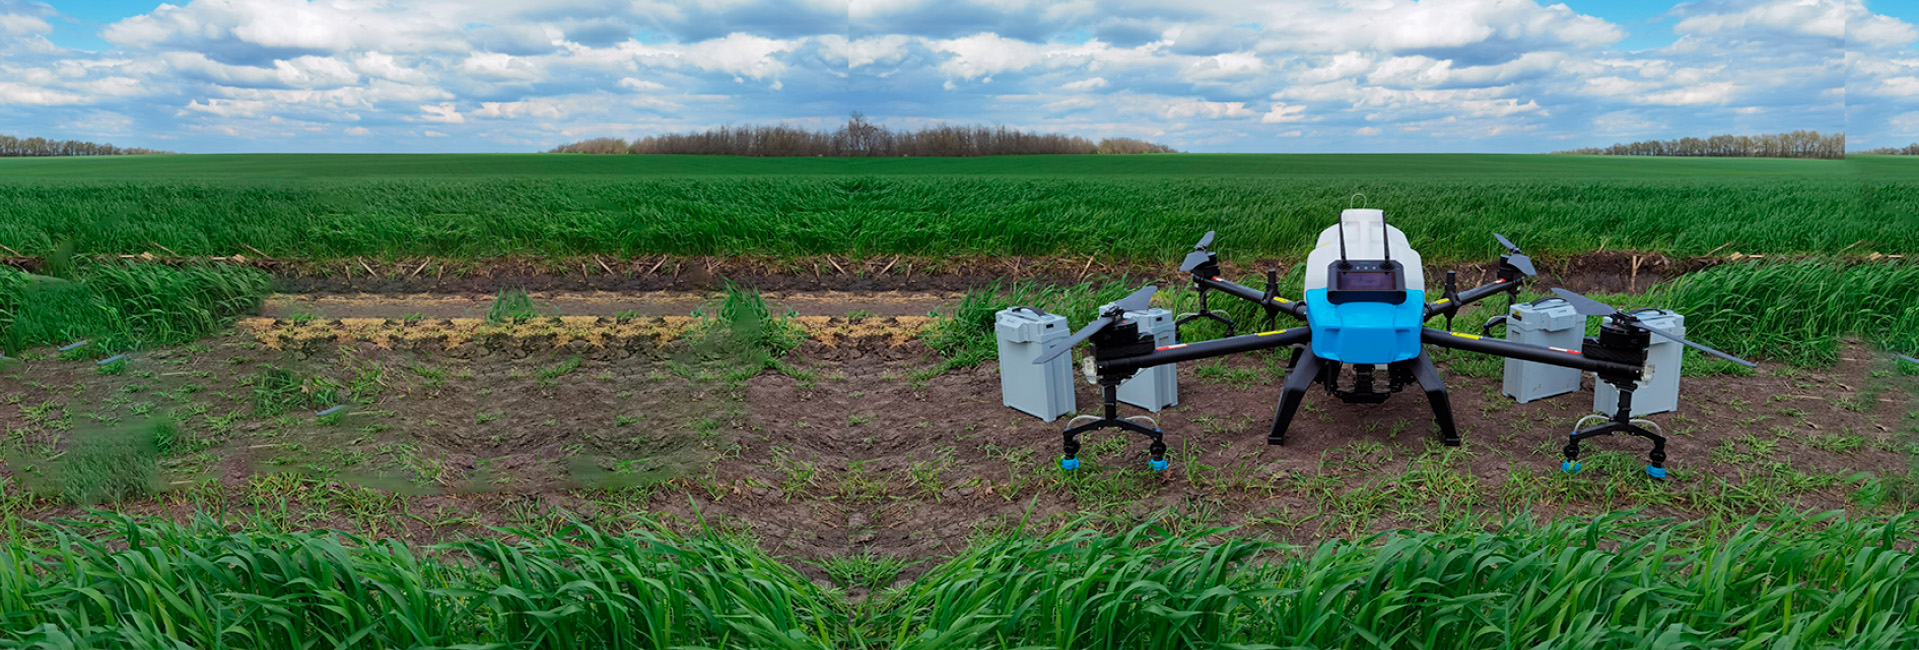
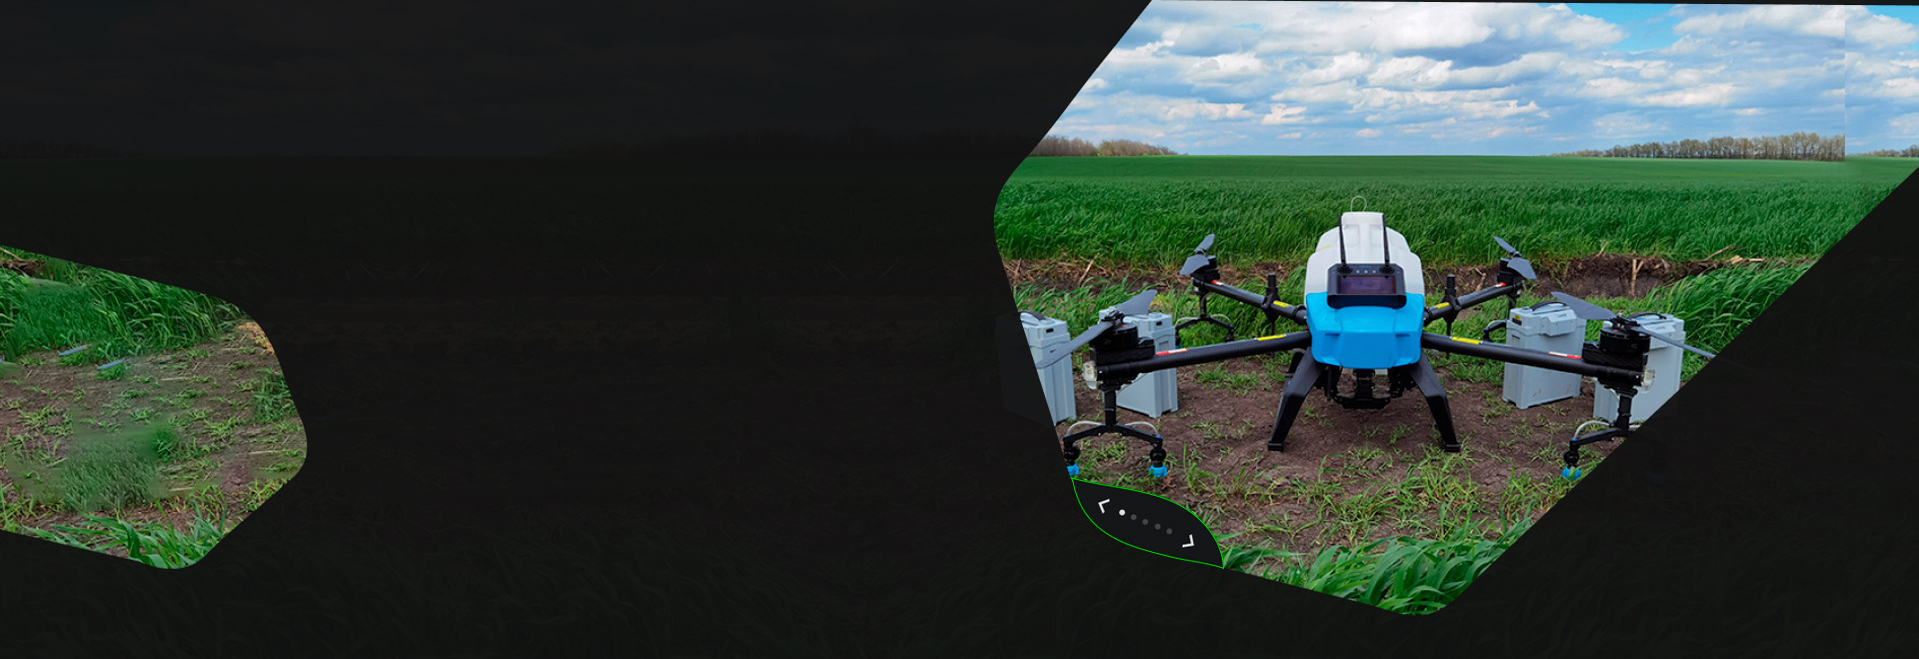
Hero block

diff --git a/frontend/src/pages/Catalog.tsx b/frontend/src/pages/Catalog.tsx
@@ -22,8 +22,9 @@ const Catalog = () => {
     <>
       <Hero
         title="Дрон опрыскиватель AGR A22"
-        imageSrc="./iconDrone_flying.svg"
-        backgroundImage="./Background/Catalog.jpg"
+        Background="/Background/Catalog.jpg"
+        imageAdapt="/Background/5.png"
+        text="Высокое качество продукции и хороший урожай - результат точного планирования и быстрого реагирования на возникающие посевам угроз."
         listAltItems={[
           { img: "./Catalog/iconTime.svg", title: "Время полета 15 минут" },
           { img: "./Catalog/icoFly.svg", title: "Скорость полета" },

diff --git a/frontend/src/pages/MapMonitoring.tsx b/frontend/src/pages/MapMonitoring.tsx
@@ -9,7 +9,8 @@ const MapMonitoring = () => {
     <>
       <Hero
         title="Агромониторинг для управления бизнесом"
-        backgroundImage="./Background/MapMonitoring.jpg"
+        Background="/Background/MapMonitoring.jpg"
+        imageAdapt="/Background/4.png"
         text="Высокое качество продукции и хороший урожай - результат точного планирования и быстрого реагирования на возникающие посевам угроз."
         listAltItems={[
           {

diff --git a/frontend/src/pages/Spraying.tsx b/frontend/src/pages/Spraying.tsx
@@ -5,7 +5,8 @@ const Spraying = () => {
     <>
       <Hero
         title="Опрыскивание полей Дронами"
-        backgroundImage="./Background/Spraying.jpg"
+        Background="./Background/Spraying.jpg"
+        imageAdapt="/Background/3.png"
         text="Внесение средств защиты при помощи БПЛА повышают урожай, экономят время и находят самые эффективные решения по обработке полей."
       />
     </>
